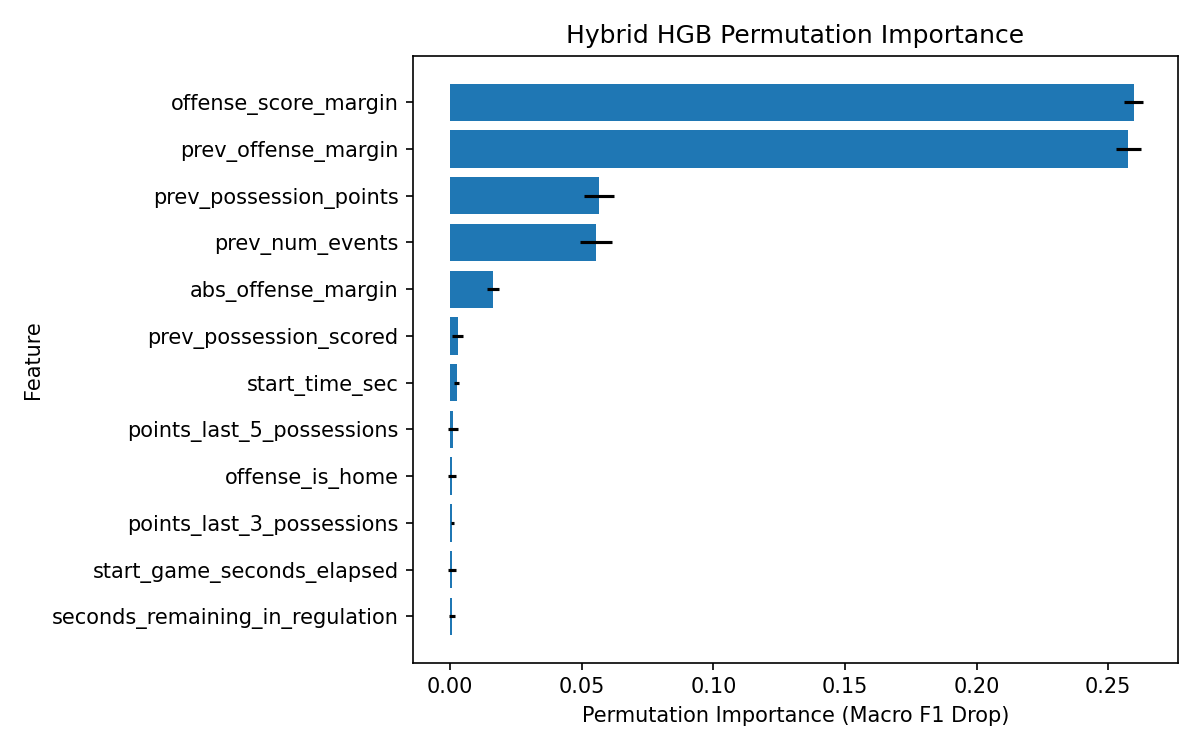
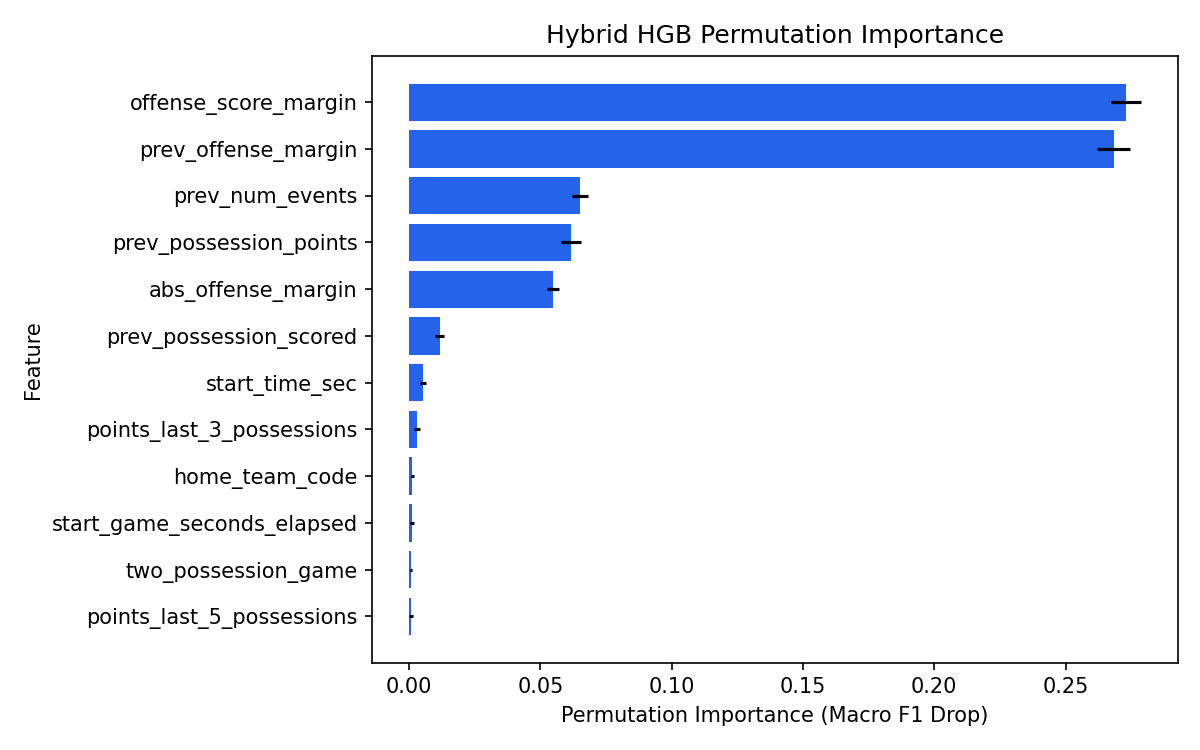
Added makefile and requirements.txt + scraped more data

diff --git a/src/06_train_model.py b/src/06_train_model.py
@@ -308,8 +308,13 @@ def write_business_findings_report(summary_df: pd.DataFrame, slice_df: pd.DataFr
     best_row = summary_df.sort_values("macro_f1", ascending=False).iloc[0]
     baseline_row = summary_df.loc[summary_df["model"] == "Majority Baseline"].iloc[0]
     quarter_df = slice_df[slice_df["slice_col"] == "quarter"].copy()
+    meaningful_quarter_df = quarter_df.loc[quarter_df["n"] >= 500].copy()
     weakest_quarter = quarter_df.sort_values("macro_f1").iloc[0]
-    strongest_quarter = quarter_df.sort_values("macro_f1", ascending=False).iloc[0]
+    strongest_quarter = (
+        meaningful_quarter_df.sort_values("macro_f1", ascending=False).iloc[0]
+        if not meaningful_quarter_df.empty
+        else quarter_df.sort_values("macro_f1", ascending=False).iloc[0]
+    )
     clock_df = slice_df[slice_df["slice_col"] == "last_2_minutes"].copy()
     clock_df["slice_value"] = clock_df["slice_value"].astype(str)
     final_two = clock_df.loc[clock_df["slice_value"] == "1"].iloc[0]
@@ -319,6 +324,39 @@ def write_business_findings_report(summary_df: pd.DataFrame, slice_df: pd.DataFr
     away_offense = home_df.loc[home_df["slice_value"] == "0"].iloc[0]
     home_offense = home_df.loc[home_df["slice_value"] == "1"].iloc[0]
     top_features = importance_df.head(5)["feature"].tolist()
+    numeric_hgb_f1 = summary_df.loc[
+        summary_df["model"] == "Numeric HistGradientBoosting",
+        "macro_f1",
+    ].iloc[0]
+    hybrid_hgb_f1 = summary_df.loc[
+        summary_df["model"] == "Hybrid Text + HistGradientBoosting",
+        "macro_f1",
+    ].iloc[0]
+
+    if hybrid_hgb_f1 > numeric_hgb_f1 + 0.001:
+        text_lift_line = (
+            f"Text adds a measurable lift. Numeric HGB reached **{numeric_hgb_f1:.3f}** "
+            f"macro F1, while the hybrid text model reached **{hybrid_hgb_f1:.3f}**."
+        )
+        text_interp_line = (
+            "Text is adding incremental value on top of the structured game-state features."
+        )
+    elif hybrid_hgb_f1 < numeric_hgb_f1 - 0.001:
+        text_lift_line = (
+            f"Text did not help on this run. Numeric HGB reached **{numeric_hgb_f1:.3f}** "
+            f"macro F1, compared with **{hybrid_hgb_f1:.3f}** for the hybrid text model."
+        )
+        text_interp_line = (
+            "The business value is currently driven primarily by structured state and recency features."
+        )
+    else:
+        text_lift_line = (
+            f"Text added little to no measurable lift on this run. Numeric HGB and the hybrid "
+            f"text model both landed at about **{hybrid_hgb_f1:.3f}** macro F1."
+        )
+        text_interp_line = (
+            "The business value is currently driven primarily by structured state and recency features."
+        )
 
     report = f"""# Business Findings
 
@@ -329,7 +367,7 @@ This project converted raw Basketball Reference play-by-play logs into a possess
 - The original momentum framing was too noisy to support reliable decision-making. Reframing the problem to possession-level scoring made the signal strong and usable.
 - The best model beats the naive baseline by **{best_row['macro_f1'] - baseline_row['macro_f1']:.3f} macro F1** and **{best_row['accuracy'] - baseline_row['accuracy']:.3f} accuracy**.
 - Score context matters most. The top predictive drivers are `{top_features[0]}`, `{top_features[1]}`, `{top_features[2]}`, `{top_features[3]}`, and `{top_features[4]}`.
-- Text adds a small but real lift. Numeric HGB reached **{summary_df.loc[summary_df['model'] == 'Numeric HistGradientBoosting', 'macro_f1'].iloc[0]:.3f}** macro F1, while the hybrid text model reached **{best_row['macro_f1']:.3f}**.
+- {text_lift_line}
 
 ## Why This Matters
 - Coaches, analysts, or product stakeholders can now identify when a possession is likely to produce points using only information available at possession start.
@@ -346,7 +384,7 @@ This project converted raw Basketball Reference play-by-play logs into a possess
 ## Business Interpretation
 - Most of the predictive value comes from game state and recent possession context, which means score margin and recent flow are actionable leading indicators.
 - End-of-game possessions are harder to predict, likely because teams change pace, foul intentionally, and make higher-variance decisions late.
-- Since text adds only a modest gain, the business value is currently driven more by structured state features than by narrative play descriptions.
+- {text_interp_line}
 
 ## Recommended Next Steps
 1. Productize the possession-scoring model as the main benchmark, not the old momentum label.

diff --git a/src/01_download_bref_pbp.py b/src/01_download_bref_pbp.py
@@ -18,7 +18,7 @@ HEADERS = {
 }
 
 REQUEST_DELAY = 5  # ⭐ safe → 12 requests/min
-TARGET_NEW_GAMES = 20
+TARGET_NEW_GAMES = 50
 
 
 # ================================
@@ -82,7 +82,7 @@ def get_game_codes_for_date(year, month, day):
 def main():
 
     year = 2025
-    month = 1
+    month = 3
 
     existing_games = {
         f.stem.replace("pbp_", "")
@@ -114,7 +114,7 @@ def main():
                 downloaded += 1
 
             if downloaded >= TARGET_NEW_GAMES:
-                print("\n Downloaded 20 new games — stopping.")
+                print("\n Downloaded 50 new games — stopping.")
                 return
 
 

diff --git a/results/reports/business_findings.md b/results/reports/business_findings.md
@@ -1,39 +1,39 @@
 # Business Findings
 
 ## Executive Summary
-This project transformed raw Basketball Reference play-by-play data into a possession-level prediction system that estimates whether a possession will end in points. The strongest production candidate is the Hybrid Text + HistGradientBoosting model, which achieved **0.777 macro F1** and **0.786 accuracy** on fully held-out games.
+This project converts raw Basketball Reference play-by-play logs into a possession-level prediction system that estimates whether a possession will end in points. On the expanded **415-game** dataset, the strongest production candidate reached **0.794 accuracy** and **0.786 macro F1** on fully held-out games.
 
 ## What We Actually Discovered
-- The original momentum framing was too noisy to support reliable decisions. Reframing the problem to possession-level scoring made the signal materially stronger and easier to interpret.
-- The best model improved from the naive baseline's **0.342 macro F1** to **0.777 macro F1**, a gain of **0.434**.
-- The best model improved from the naive baseline's **0.520 accuracy** to **0.786 accuracy**, a gain of **0.266**.
-- The highest-value predictive drivers are score context and recent possession flow, especially `offense_score_margin`, `prev_offense_margin`, `prev_possession_points`, `prev_num_events`, and `abs_offense_margin`.
-- Text features added a small but real lift: Numeric HGB reached **0.776 macro F1**, while the hybrid text model reached **0.777**.
+- The original momentum framing was too noisy to support reliable decision-making. Reframing the problem to possession-level scoring made the signal much stronger and more usable.
+- The best model improved from the naive baseline's **0.342 macro F1** to **0.786 macro F1**, a gain of **0.444**.
+- The best model improved from the naive baseline's **0.519 accuracy** to **0.794 accuracy**, a gain of **0.275**.
+- The highest-value predictive drivers are score context and recent possession flow, especially `offense_score_margin`, `prev_offense_margin`, `prev_num_events`, `prev_possession_points`, and `abs_offense_margin`.
+- On the larger dataset, text no longer added measurable lift over the numeric HistGradientBoosting model, suggesting the structured game-state features carry almost all of the predictive signal.
 
 ## Why It Matters
 - This model can support live game-state products that estimate possession scoring likelihood in near real time.
-- The output is practical for broadcast insights, analyst dashboards, and scenario-based coaching review because it uses information available at possession start.
+- The output is practical for broadcast insights, analyst dashboards, and scenario-based coaching review because it uses only information available at possession start.
 - The evaluation is trustworthy because train, validation, and test splits are grouped by `game_id`, which avoids leakage across the same game.
 
 ## Where The Model Is Strongest And Weakest
-- Strongest quarter: **1st OT** at **0.805 macro F1**
-- Weakest quarter: **4th Q** at **0.751 macro F1**
-- Before the final 2 minutes: **0.779 macro F1**
-- In the final 2 minutes: **0.734 macro F1**
-- Away-team possessions: **0.780 macro F1**
-- Home-team possessions: **0.773 macro F1**
+- Strongest quarter with meaningful sample size: **1st Q** at **0.816 macro F1**
+- Weakest quarter: **4th Q** at **0.758 macro F1**
+- Before the final 2 minutes: **0.789 macro F1**
+- In the final 2 minutes: **0.735 macro F1**
+- Away-team possessions: **0.791 macro F1**
+- Home-team possessions: **0.781 macro F1**
 
 ## Business Interpretation
 - Score margin is the clearest leading indicator of whether a possession will score. That means game state itself carries most of the predictive value.
-- Recent possession context also matters, which suggests momentum is better represented as short-run flow than as a broad 120-second future swing.
-- Late-game possessions are harder to predict, likely because teams intentionally change behavior through fouling, clock management, and higher-variance shot selection.
-- The small text lift suggests structured game-state features are already doing most of the heavy lifting, while play descriptions add incremental context.
+- Recent possession context also matters, which suggests short-run flow is more useful than an abstract, long-horizon "momentum" label.
+- Late-game possessions are harder to predict, likely because teams deliberately change behavior through fouling, pace changes, and higher-variance shot selection.
+- Since text provided no measurable gain on the larger sample, the current business value is driven primarily by structured state and recency features.
 
 ## Recommended Next Steps
 1. Treat possession scoring as the main benchmark task rather than the older momentum label.
 2. Build a lightweight dashboard showing predicted scoring probability by possession and highlighting high-leverage situations.
-3. Add richer features such as team identity, lineup context, and possession-start event type to improve late-game recall.
-4. Expand the dataset across more games or seasons before making stronger deployment claims.
+3. Add richer features such as lineup context, possession-start event type, and team-strength priors to improve late-game recall.
+4. Continue expanding the dataset across more games or seasons before making stronger deployment claims.
 
 ## Visuals For A Deck
 - `results/charts/model_comparison_macro_f1.png`

diff --git a/README.md b/README.md
@@ -6,10 +6,10 @@ In one line: we started with a vague "momentum" idea, discovered that it was too
 
 ## Snapshot
 - Data source: Basketball Reference play-by-play tables
-- Final dataset: `118,450` plays -> `50,654` possessions across `252` games
+- Final dataset: `192,886` plays -> `82,961` possessions across `415` games
 - Best model: `Hybrid Text + HistGradientBoosting`
-- Held-out test performance: `0.786` accuracy, `0.777` macro F1
-- Key finding: score margin and recent possession context carry most of the signal; text helps a little
+- Held-out test performance: `0.794` accuracy, `0.786` macro F1
+- Key finding: score margin and recent possession context carry most of the signal; text adds little to no extra lift on the larger dataset
 
 ![Model Comparison](results/charts/model_comparison_macro_f1.png)
 
@@ -26,20 +26,27 @@ In one line: we started with a vague "momentum" idea, discovered that it was too
 ## Main Findings
 - The original "momentum shift in the next 120 seconds" label was too noisy to model well.
 - Reframing the task to possession-level scoring produced a much stronger and more interpretable signal.
-- The best model, `Hybrid Text + HistGradientBoosting`, reached `0.7766` macro F1 on held-out games.
-- The biggest drivers are `offense_score_margin`, `prev_offense_margin`, `prev_possession_points`, `prev_num_events`, and `abs_offense_margin`.
+- On the expanded 415-game dataset, the best held-out result reached `0.7857` macro F1 and `0.7938` accuracy.
+- The biggest drivers are `offense_score_margin`, `prev_offense_margin`, `prev_num_events`, `prev_possession_points`, and `abs_offense_margin`.
 - Performance is strongest earlier in games and weakest in the `4th Q` and final two minutes, which suggests late-game possessions are higher variance and strategically different.
+- On this larger run, the text-augmented model tied the numeric HGB model, which means structured game-state features are carrying nearly all of the predictive value.
 
 Business-facing summary: [results/reports/business_findings.md](results/reports/business_findings.md)
 
 ## Reproducible Setup
-Use a clean Python environment and install the packages below.
+Use a clean Python environment and install the pinned project dependencies from `requirements.txt`.
 
 ```bash
 python -m venv .venv
 source .venv/bin/activate
 python -m pip install --upgrade pip
-pip install pandas numpy pyarrow requests beautifulsoup4 lxml scikit-learn matplotlib
+pip install -r requirements.txt
+```
+
+Optional shortcut:
+
+```bash
+make install
 ```
 
 Recommended assumptions:
@@ -57,6 +64,23 @@ python src/03_build_corpus.py
 python src/04_create_labels.py
 python src/05_build_features.py
 python src/06_train_model.py
+```
+
+Or use the Makefile shortcuts:
+
+```bash
+make run
+```
+
+Useful individual commands:
+
+```bash
+make download
+make clean
+make corpus
+make labels
+make features
+make train
 ```
 
 Notes:
@@ -89,10 +113,10 @@ From [results/tables/model_summary.csv](results/tables/model_summary.csv):
 
 | Model | Accuracy | Macro F1 |
 |---|---:|---:|
-| Majority Baseline | 0.520 | 0.342 |
-| Numeric Logistic | 0.769 | 0.757 |
-| Numeric HistGradientBoosting | 0.786 | 0.776 |
-| Hybrid Text + HistGradientBoosting | **0.786** | **0.777** |
+| Majority Baseline | 0.519 | 0.342 |
+| Numeric Logistic | 0.777 | 0.768 |
+| Numeric HistGradientBoosting | 0.794 | 0.786 |
+| Hybrid Text + HistGradientBoosting | **0.794** | **0.786** |
 
 ## Where To Look First
 - Quick business summary: [results/reports/business_findings.md](results/reports/business_findings.md)
